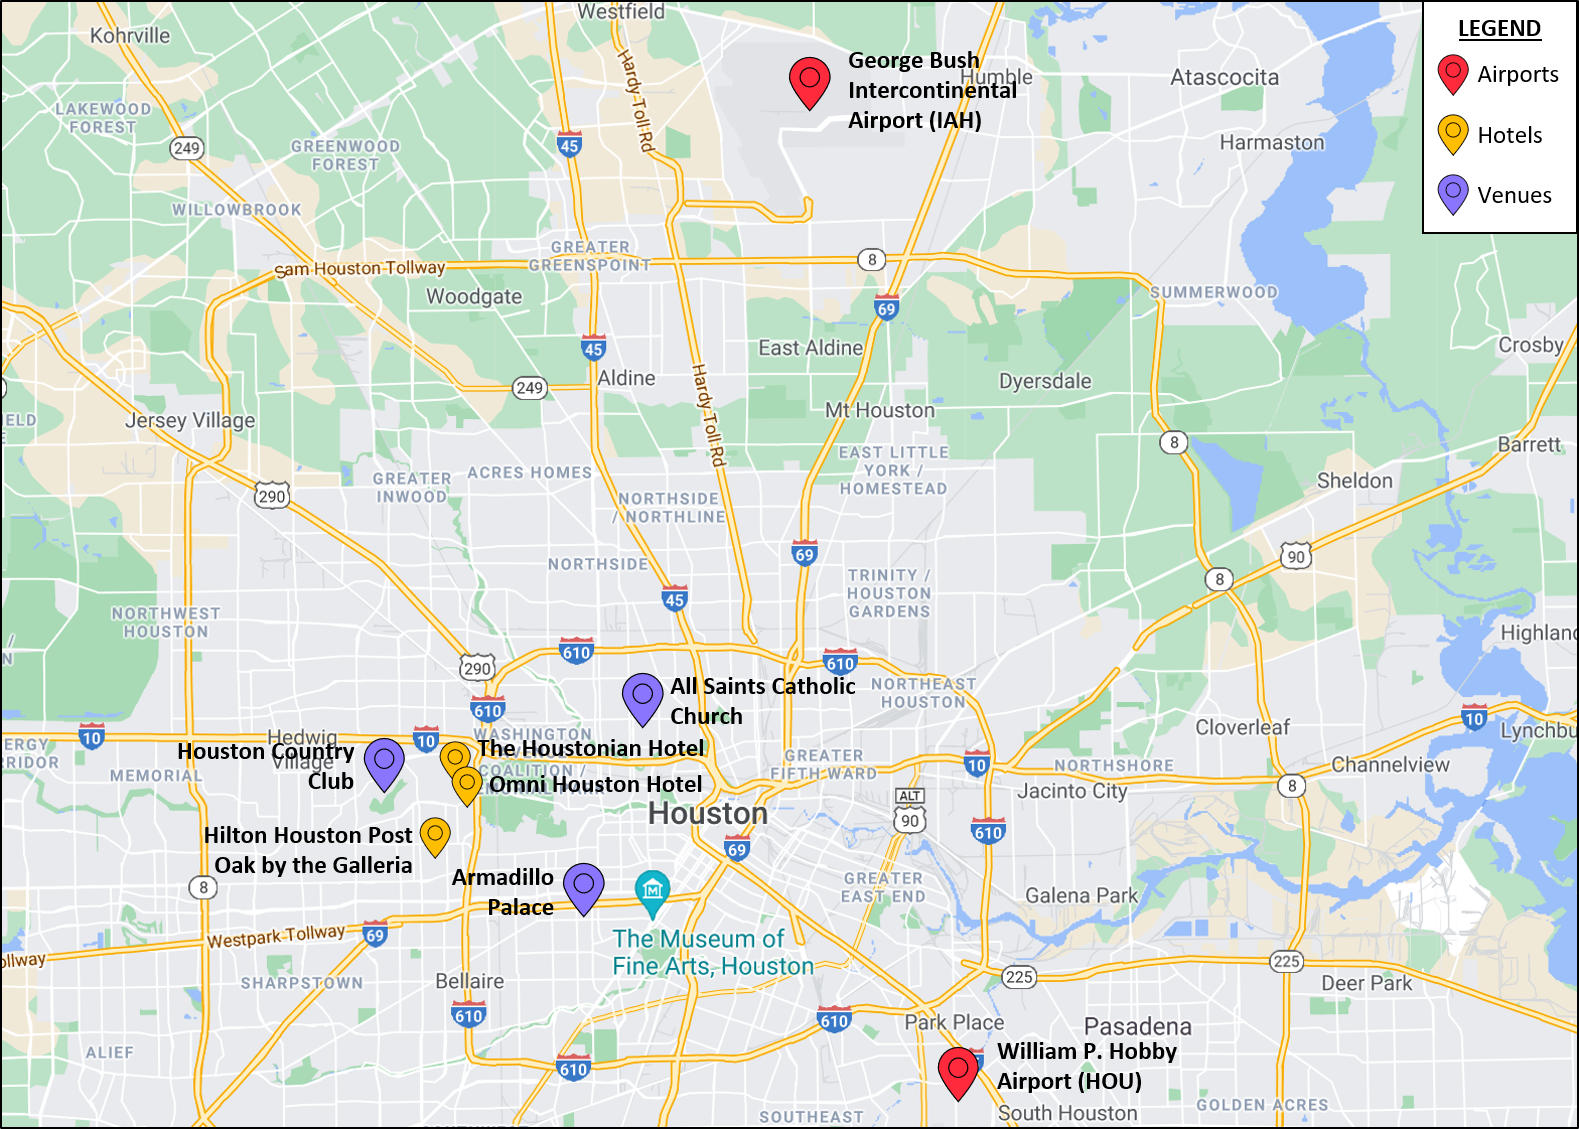
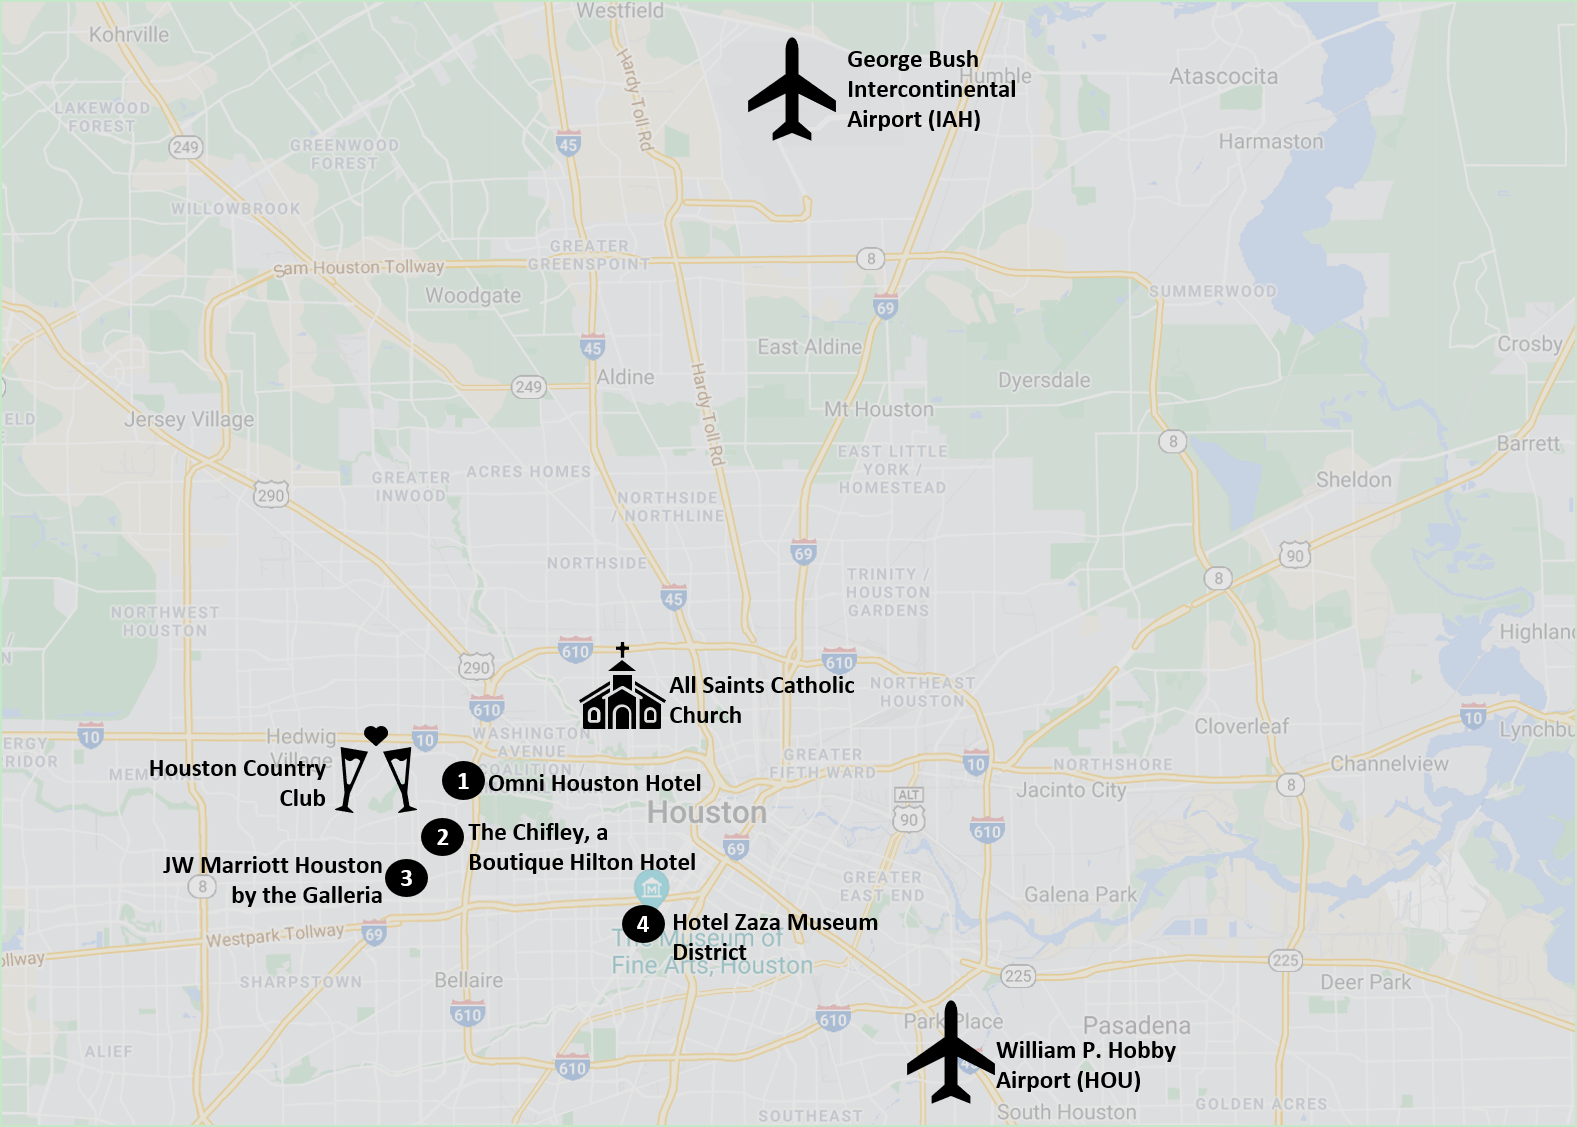
Updates in mid-Sep before save the date sent out

diff --git a/src/app/travel/travel.component.html b/src/app/travel/travel.component.html
@@ -1,6 +1,117 @@
-<div class="container">
-  <div class="row align-items-center py-3">
-    <div class="col-3"> <img src="assets/Mapv1.png" class="img-fluid" /></div>
+<div class="row pb-3">
+  <div class="col-12">
+    <div class="card">
+      <div class="card-header emily-nav-bar-color text-light">
+        Ceremony and Reception
+      </div>
+      <div class="card-body">
+        <div class="row text-center">
+          <div class="col-sm-6">
+            <div class="card">
+              <div class="card-body">
+                <h5 class="card-title lead">C E R E M O N Y</h5>
+                <p class="card-text text-muted">
+                  Our ceremony will be at All Saints Catholic Church at 3PM.<br>
+                  215 E 10th St, Houston, TX 77008
+                </p>
+              </div>
+            </div>
+          </div>
+          <div class="col-sm-6">
+            <div class="card">
+              <div class="card-body">
+                <h5 class="card-title lead">R E C E P T I O N</h5>
+                <p class="card-text text-muted">
+                  Our reception will be at the Houston Country Club at 6:30PM.<br>
+                  1 Potomac Dr, Houston, TX 77057 
+                </p>
+                
+              </div>
+            </div>
+          </div>
+        </div>
+      </div>
+    </div>
+  </div>
+</div>
+
+<div class="row pb-3 text-center">
+  <div class="col-12">
+    <div class="card">
+      <div class="card-header emily-nav-bar-color text-light">Hotels</div>
+      <div class="card-body">
+        <div class="row">
+          <div class="col-sm-3">
+            <div class="card">
+              <div class="card-body">
+                <h5 class="card-title">❶ Omni</h5>
+                <p class="card-text small text-muted">
+                  Reservations can be made by calling Omni Reservations at 1-800-OMNI before Apr 20, 2022 
+                  and referring to the Emily Sycz and Nick Padon Wedding Room Block, 
+                  or using the link below to reserve online, for discounted rates on various 
+                  room types starting at $139.00.
+                </p>
+                <a href="#" class="btn btn-primary">Book</a>
+              </div>
+            </div>
+          </div>
+          <div class="col-sm-3">
+            <div class="card">
+              <div class="card-body">
+                <h5 class="card-title">❷ The Chifley</h5>
+                <p class="card-text small text-muted">
+                  his new hotel will be replacing the current Sheraton Suites 
+                  near the Galleria starting next year. ($139.00)
+                </p>
+                <a href="#" class="btn btn-primary">Book</a>
+              </div>
+            </div>
+          </div>
+          <div class="col-sm-3">
+            <div class="card">
+              <div class="card-body">
+                <h5 class="card-title">❸ JW Marriott</h5>
+                <p class="card-text small text-muted">
+                  Please call Marriott Reservations at 800-228-9290 or 713-961-1500 before Apr 22, 2022 and reference the Sycz/Padon Wedding or 
+                  use the link below to reserve online and 
+                  receive the special rate of $179.00. For additional benefits (e.g., Wifi)
+                  you can sign up for free to become a Marriott Bonvoy member.
+                </p>
+                <a href="#" class="btn btn-primary">Book</a>
+              </div>
+            </div>
+          </div>
+          <div class="col-sm-3">
+            <div class="card">
+              <div class="card-body">
+                <h5 class="card-title">❹ Hotel Zaza</h5>
+                <p class="card-text small text-muted">
+                  TBD $219.00.
+                </p>
+                <a href="#" class="btn btn-primary">Book</a>
+              </div>
+            </div>
+          </div>
+        </div>
+      </div>
+    </div>
+  </div>
+</div>
+<div class="row pb-3">
+  <div class="col-12">
+    <div class="card">
+      <div class="card-header emily-nav-bar-color text-light">
+        Weekend Points of Interest
+      </div>
+      <div class="card-body">
+        <img src="assets/Mapv1.png" class="img-fluid" />
+      </div>
+    </div>
+  </div>
+</div>
+
+<!--       
+      <img src="assets/Mapv1.png" class="img-fluid" /></div>
     <div class="col-9"><h5>Hotels</h5>
       <h6 class="mb-2 text-muted">The Houstonian | More forthcoming...</h6>
       <p>
@@ -46,4 +157,4 @@
       >
     </div>
   </div>
-</div>
+</div> -->

diff --git a/src/app/home/home.component.html b/src/app/home/home.component.html
@@ -3,7 +3,7 @@
     <h3 class="display-5 text-start">We're Getting Married!</h3>
     <p class="lead text-start">21 May 2022 · Houston, TX</p>
     <hr>
-    <p class="small text-muted  text-start">
+    <p class="text-start small text-muted ">
         This website is kind of painful but we made it. 
         It's like when your child is ugly but it's yours and you love it.
     We hope you take as much pleasure reading it as we had in making it.</p>
@@ -12,22 +12,22 @@
 </div>
 <div class="row align-items-center">
   <div class="col-12">
-    <img src="assets/a1.jpg" style="width: 31%" />&nbsp;
-    <img src="assets/a2.jpg" style="width: 31%" />&nbsp;
-    <img src="assets/a3.jpg" style="width: 31%" />
+    <img src="assets/a1.jpg" style="width: 30%" />&nbsp;
+    <img src="assets/a2.jpg" style="width: 30%" />&nbsp;
+    <img src="assets/a3.jpg" style="width: 30%" />
   </div>
 </div>
-<div class="row mx-4 align-items-center" style="height: 8rem">
+<div class="row mx-4 align-items-center" style="height: 5rem">
   <div class="col-12">
-    <p class="lead text-start align-middle">
+    <p class="text-start small text-muted">
       In case the previous header didn't inform you, we are totally getting married in May 2022.
     </p>
   </div>
 </div>
 <div class="row align-items-center">
   <div class="col-12">
-    <img src="assets/e1.jpg" style="width: 30%" />&nbsp;
-    <img src="assets/e2.jpg" style="width: 30%" />&nbsp;
-    <img src="assets/e3.jpg" style="width: 32%" />
+    <img src="assets/e1.jpg" style="width: 29%" />&nbsp;
+    <img src="assets/e2.jpg" style="width: 29%" />&nbsp;
+    <img src="assets/e3.jpg" style="width: 31%" />
   </div>
 </div>

diff --git a/src/app/contact/contact.component.html b/src/app/contact/contact.component.html
@@ -1,4 +1,4 @@
-<div class="container d-flex justify-content-center col-6">
+<div class="container d-flex justify-content-center col-6 pb-4">
 <div class="card">
     <ul class="list-group list-group-flush">
       <li class="list-group-item"><a href="mailto:nickpadonandemilysyczwedding@gmail.com">nickpadonandemilysyczwedding@gmail.com</a></li>

diff --git a/src/app/app.component.html b/src/app/app.component.html
@@ -13,7 +13,7 @@
     </div>
   </div>
   <app-app-nav></app-app-nav>
-  <div class="container-fluid text-center mt-5 mb-1">
+  <div class="container-fluid mt-5 mb-1">
     <router-outlet></router-outlet>
   </div>
 </main>

diff --git a/src/app/registry/registry.component.html b/src/app/registry/registry.component.html
@@ -1,1 +1,1 @@
-<p class="lead">We will eventually register somewhere when we get our act together.</p>
+<p class="lead text-center">We will eventually register somewhere when we get our act together.</p>
